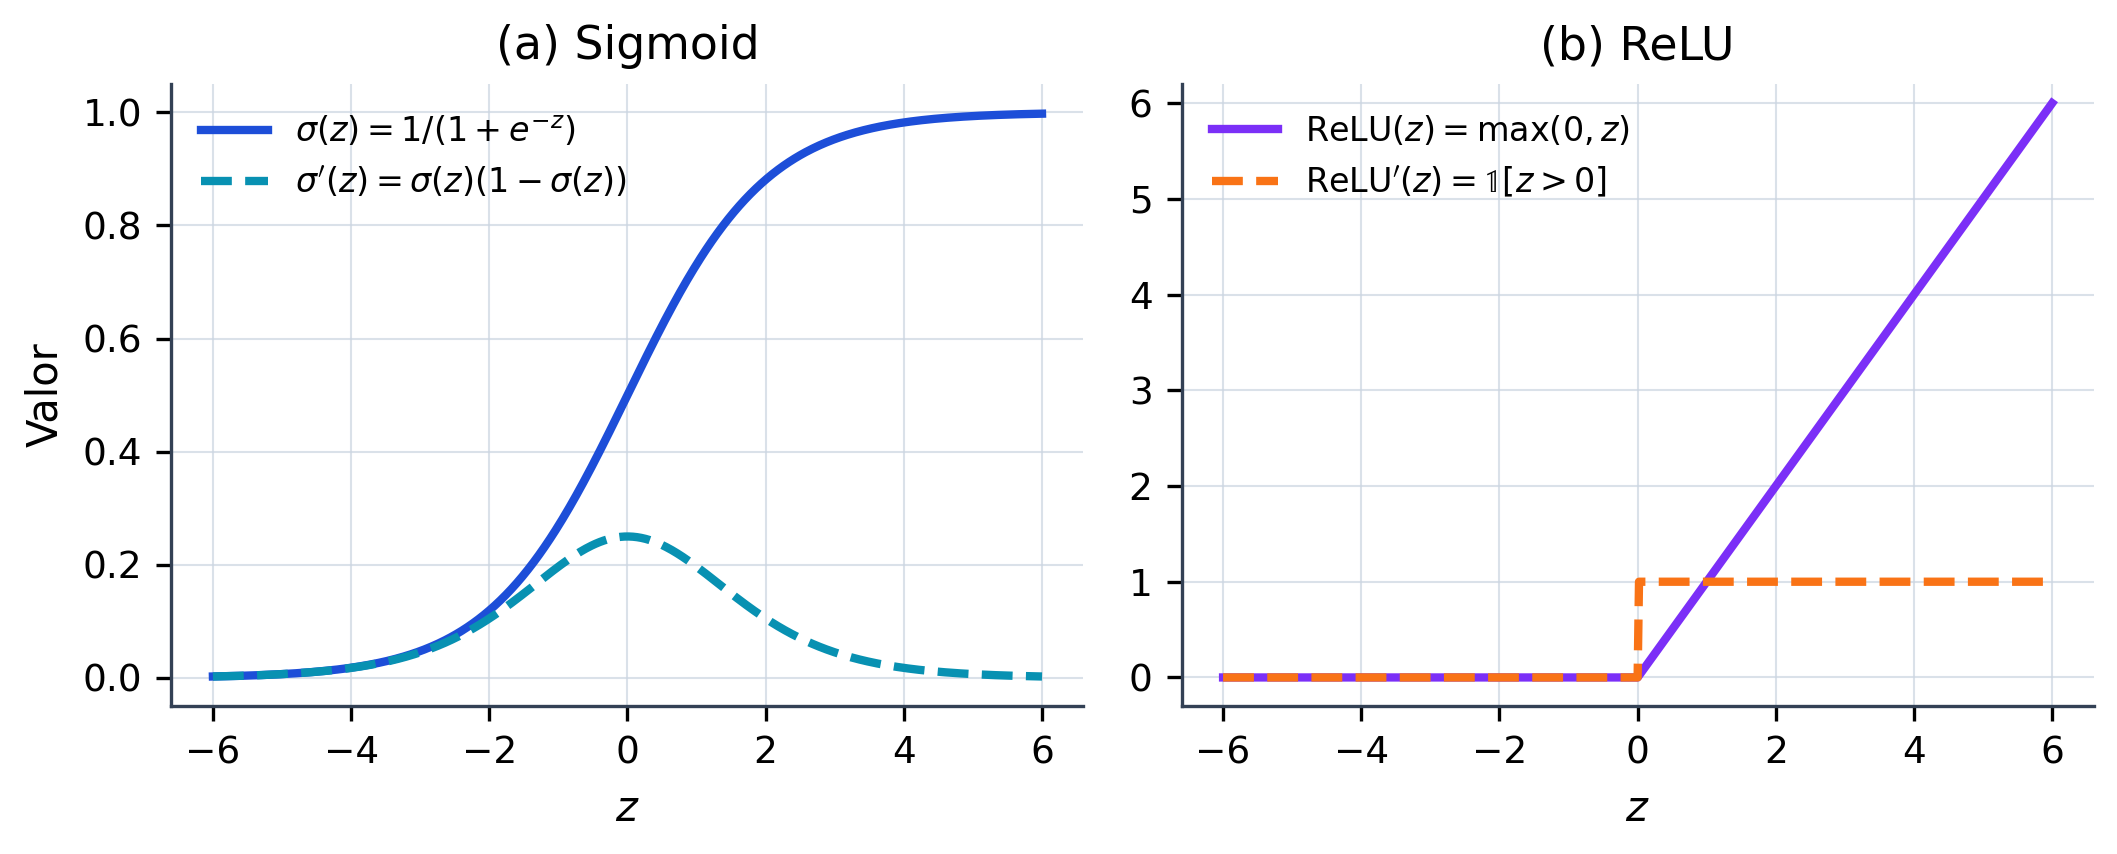
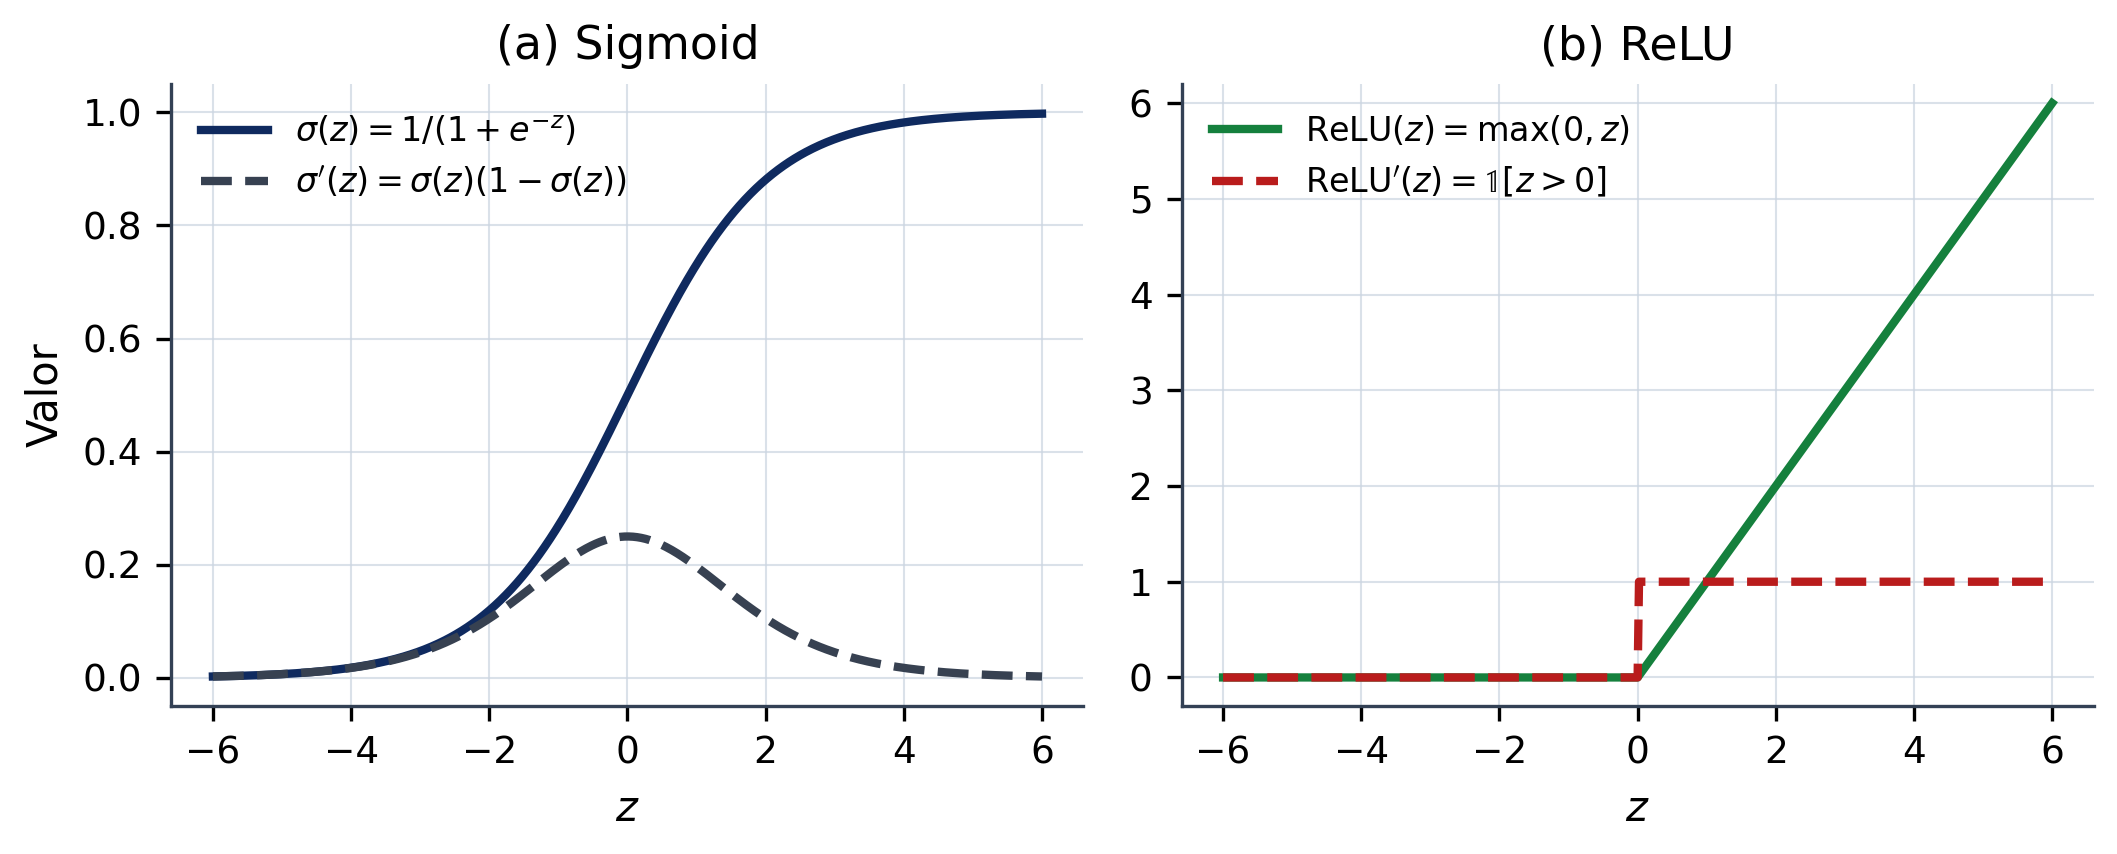
Paleta sobria científica en gráficas y diagramas (300 DPI) para el documento final

diff --git a/diagramas/generar_diagramas.py b/diagramas/generar_diagramas.py
@@ -17,13 +17,14 @@ DIR = RAIZ / "diagramas"
 FIG = RAIZ / "tesis" / "figuras"
 ESCALA = 300 / 96  # draw.io rasteriza a 96 px/pulgada
 
-MARINO = "#0F1736"
-AZUL = "#1D4ED8"
-CIAN = "#0891B2"
-PURPURA = "#7B2FF7"
-NARANJA = "#F97316"
+# Paleta sobria institucional: azul marino, gris pizarra, rojo técnico y verde bosque.
+MARINO = "#0F2A5F"
+AZUL = "#1E3A8A"
+CIAN = "#334155"
+PURPURA = "#0F2A5F"
+NARANJA = "#374151"
 ROJO = "#B91C1C"
-VERDE = "#047857"
+VERDE = "#15803D"
 GRIS = "#475569"
 FUENTE = "fontFamily=Helvetica;fontSize=13;fontColor=#0F172A;"
 
@@ -116,8 +117,8 @@ def d01_arbol():
                       X0, 300, W, 100, "fontSize=14;", borde=ROJO, relleno="#FEE2E2")
     for k, (e, c) in enumerate(zip(efectos, causas)):
         xc = cols[k] + cw / 2
-        ie = d.caja(e, cols[k], 130, cw, 110, borde=PURPURA, relleno="#F3E8FF")
-        ic = d.caja(c, cols[k], 460, cw, 130, borde=CIAN, relleno="#E0F2FE")
+        ie = d.caja(e, cols[k], 130, cw, 110, borde=PURPURA, relleno="#EEF2F7")
+        ic = d.caja(c, cols[k], 460, cw, 130, borde=CIAN, relleno="#F1F5F9")
         d.flecha(ic, problema, estilo=f"exitX=0.5;exitY=0;entryX={ent(X0, W, xc)};entryY=1;")
         d.flecha(problema, ie, estilo=f"exitX={ent(X0, W, xc)};exitY=0;entryX=0.5;entryY=1;")
         d.flecha(ie, final, estilo=f"exitX=0.5;exitY=0;entryX={ent(X0, W, xc)};entryY=1;")
@@ -130,9 +131,9 @@ def d02_arquitectura():
     paquete = "align=left;verticalAlign=top;spacingLeft=12;spacingTop=4;fontStyle=1;fontSize=14;dashed=0;"
     clase = "align=left;verticalAlign=top;spacingLeft=8;spacingTop=4;fontSize=11;arcSize=3;"
     W = 1420
-    pk_exp = d.caja("experiments  (src/experiments/)", 0, 170, W, 210, paquete, borde=NARANJA, relleno="#FFF7ED")
-    pk_nn = d.caja("nn  (src/nn/)", 0, 440, W, 350, paquete, borde=PURPURA, relleno="#FAF5FF")
-    pk_math = d.caja("math  (src/math/)", 0, 850, W, 250, paquete, borde=CIAN, relleno="#ECFEFF")
+    pk_exp = d.caja("experiments  (src/experiments/)", 0, 170, W, 210, paquete, borde=NARANJA, relleno="#F8FAFC")
+    pk_nn = d.caja("nn  (src/nn/)", 0, 440, W, 350, paquete, borde=PURPURA, relleno="#F8FAFC")
+    pk_math = d.caja("math  (src/math/)", 0, 850, W, 250, paquete, borde=CIAN, relleno="#F8FAFC")
     main = d.caja(uml("main.rs — CLI", ["flags: --all · --exp1 · --exp2 · --exp3 · --escritorio · --bench",
                                         "--export &lt;DIR&gt; · --seed &lt;N&gt; (por defecto 42)"],
                       ["+ parsear(args) → Opciones", "+ ejecutar(&amp;Opciones) → resultados/*.csv"]),
@@ -166,11 +167,11 @@ def d02_arquitectura():
     activation = d.caja(uml("Activation", ["Sigmoid · ReLU · Linear"], ["(Copy, sin asignación dinámica)"], "enum"),
                         730, 660, 220, 100, clase, borde=PURPURA)
     act_fn = d.caja(uml("ActivationFn", [], ["+ activate(z) → f(z)", "+ derivative(z) → f'(z)", "+ name()"], "trait"),
-                    1000, 480, 190, 120, clase, borde=PURPURA, relleno="#EDE9FE")
+                    1000, 480, 190, 120, clase, borde=PURPURA, relleno="#E8EDF5")
     structs = d.caja(uml("Sigmoid · ReLU · Linear", ["σ(z) · max(0, z) · z"], [], "struct"),
                      1000, 660, 190, 100, clase, borde=PURPURA)
     loss_fn = d.caja(uml("LossFn", [], ["+ loss(ŷ, y)", "+ derivative(ŷ, y)"], "trait"),
-                     1230, 480, 170, 120, clase, borde=PURPURA, relleno="#EDE9FE")
+                     1230, 480, 170, 120, clase, borde=PURPURA, relleno="#E8EDF5")
     mse = d.caja(uml("Mse", ["(1/n)·Σ(ŷᵢ − yᵢ)²", "∂/∂ŷ = (2/n)(ŷ − y)"], [], "struct"),
                  1230, 660, 170, 100, clase, borde=PURPURA)
     vector = d.caja(uml("Vector", ["- data: Vec&lt;f64&gt;"],
@@ -225,17 +226,17 @@ def d03_flujo():
     nodo("muestra", "<b>Para cada muestra</b> (x, y) del conjunto de entrenamiento", 44, relleno="#F1F5F9")
     y_grupo = y - 16
     nodo("fwd", "<b>1. forward</b>  (propagación hacia adelante)<br>a⁽⁰⁾ = x<br>"
-         "z⁽ˡ⁾ = W⁽ˡ⁾·a⁽ˡ⁻¹⁾ + b⁽ˡ⁾,   a⁽ˡ⁾ = f(z⁽ˡ⁾),   l = 1, …, L<br>ŷ = a⁽ᴸ⁾", 98, borde=AZUL, relleno="#DBEAFE")
-    nodo("loss", "<b>2. Pérdida</b><br>L = MSE(ŷ, y) = (1/n)·Σᵢ (ŷᵢ − yᵢ)²", 58, borde=NARANJA, relleno="#FFEDD5")
+         "z⁽ˡ⁾ = W⁽ˡ⁾·a⁽ˡ⁻¹⁾ + b⁽ˡ⁾,   a⁽ˡ⁾ = f(z⁽ˡ⁾),   l = 1, …, L<br>ŷ = a⁽ᴸ⁾", 98, borde=AZUL, relleno="#E8EDF5")
+    nodo("loss", "<b>2. Pérdida</b><br>L = MSE(ŷ, y) = (1/n)·Σᵢ (ŷᵢ − yᵢ)²", 58, borde=NARANJA, relleno="#F1F5F9")
     nodo("bwd", "<b>3. backward</b>  (retropropagación)<br>δ⁽ᴸ⁾ = (2/n)(ŷ − y) ⊙ f′(z⁽ᴸ⁾)<br>"
          "δ⁽ˡ⁾ = (W⁽ˡ⁺¹⁾)ᵀ·δ⁽ˡ⁺¹⁾ ⊙ f′(z⁽ˡ⁾)<br>∇W⁽ˡ⁾ = δ⁽ˡ⁾·(a⁽ˡ⁻¹⁾)ᵀ,   ∇b⁽ˡ⁾ = δ⁽ˡ⁾", 112,
-         borde=PURPURA, relleno="#EDE9FE")
+         borde=PURPURA, relleno="#E8EDF5")
     nodo("upd", "<b>4. update</b>  (descenso de gradiente)<br>W⁽ˡ⁾ ← W⁽ˡ⁾ − α·∇W⁽ˡ⁾,   b⁽ˡ⁾ ← b⁽ˡ⁾ − α·∇b⁽ˡ⁾",
-         64, borde=VERDE, relleno="#D1FAE5")
+         64, borde=VERDE, relleno="#ECF5EF")
     y_fin_grupo = y - 38 + 16
-    nodo("q1", "¿Quedan<br>muestras?", 92, "rhombus;fontStyle=1;", relleno="#FEF9C3", ancho=200)
+    nodo("q1", "¿Quedan<br>muestras?", 92, "rhombus;fontStyle=1;", relleno="#F1F5F9", ancho=200)
     nodo("log", "<b>Registrar la época</b>: MSE, exactitud, pesos → resultados/*.csv", 50, relleno="#F1F5F9")
-    nodo("q2", "¿e &lt; E?", 92, "rhombus;fontStyle=1;", relleno="#FEF9C3", ancho=200)
+    nodo("q2", "¿e &lt; E?", 92, "rhombus;fontStyle=1;", relleno="#F1F5F9", ancho=200)
     nodo("eval", "<b>Evaluación final</b> con predict(&amp;self, x): exactitud, matriz de confusión", 50)
     nodo("fin", "Fin", 46, inicio_fin, relleno="#E2E8F0", ancho=180)
     grupo = d.caja("", x - 30, y_grupo, w + 60, y_fin_grupo - y_grupo, "dashed=1;dashPattern=6 4;", borde=GRIS, relleno="none")
@@ -267,9 +268,9 @@ def d04_memoria():
     zona = "align=left;verticalAlign=top;spacingLeft=12;spacingTop=6;fontStyle=1;fontSize=14;"
     fila = "align=left;spacingLeft=8;fontSize=12;rounded=0;"
     d.caja("STACK  (marco de ejecutar(): tamaño fijo)", 0, 0, 430, 470, zona,
-           borde=AZUL, relleno="#EFF6FF")
+           borde=AZUL, relleno="#F8FAFC")
     d.caja("HEAP  (buffers de Vec&lt;T&gt;: tamaño dinámico, liberados por Drop)", 500, 0, 820, 470, zona,
-           borde=PURPURA, relleno="#FAF5FF")
+           borde=PURPURA, relleno="#F8FAFC")
     d.texto("<b>red: Network</b>  (XOR 2-4-1, propietaria de sus capas)", 20, 50, 390, 26, "align=left;")
     red_layers = d.caja("layers: Vec&lt;Layer&gt;  { ptr ●, len = 2, cap = 2 }", 20, 78, 390, 34, fila, borde=AZUL)
     d.caja("loss: Mse  (struct de tamaño 0)", 20, 112, 390, 34, fila, borde=AZUL)
@@ -279,22 +280,22 @@ def d04_memoria():
     d.caja("Un Vec&lt;T&gt; ocupa 24 B en el stack (puntero, longitud y capacidad); "
            "sus elementos viven contiguos en el heap.", 20, 320, 390, 70, "fontSize=12;align=left;", borde=GRIS, relleno="#FFFFFF")
     d.texto("<b>Buffer de Vec&lt;Layer&gt;</b>  (2 capas contiguas)", 520, 40, 500, 26, "align=left;")
-    l0 = d.caja("<b>Layer 0</b>  (2 → 4, Sigmoid)", 520, 68, 380, 30, fila + "fillColor=#EDE9FE;", borde=PURPURA)
+    l0 = d.caja("<b>Layer 0</b>  (2 → 4, Sigmoid)", 520, 68, 380, 30, fila + "fillColor=#E8EDF5;", borde=PURPURA)
     l0w = d.caja("weights: Matrix { rows = 4, cols = 2, data: ptr ● }", 520, 98, 380, 30, fila, borde=PURPURA)
     d.caja("biases, input, z, output, delta: Vector · grad_weights: Matrix", 520, 128, 380, 30, fila + "fontSize=11;", borde=PURPURA)
-    d.caja("<b>Layer 1</b>  (4 → 1, Sigmoid)", 520, 158, 380, 30, fila + "fillColor=#EDE9FE;", borde=PURPURA)
+    d.caja("<b>Layer 1</b>  (4 → 1, Sigmoid)", 520, 158, 380, 30, fila + "fillColor=#E8EDF5;", borde=PURPURA)
     d.caja("weights: Matrix { rows = 1, cols = 4, data: ptr ● } · …", 520, 188, 380, 30, fila + "fontSize=11;", borde=PURPURA)
     d.texto("<b>Datos de weights de Layer 0</b> (W⁽¹⁾): 4 × 2 = 8 valores f64 en orden por filas (64 B contiguos)", 520, 255, 780, 26, "align=left;")
     celdas = []
     for k in range(8):
         i, j = divmod(k, 2)
-        relleno = "#E0F2FE" if i % 2 == 0 else "#CFFAFE"
+        relleno = "#F1F5F9" if i % 2 == 0 else "#E2E8F0"
         celdas.append(d.caja(f"w<sub>{i}{j}</sub><br><font style=\"font-size:10px\">[{k}]</font>", 520 + k * 72, 285, 72, 54,
                              "rounded=0;", borde=CIAN, relleno=relleno))
     d.texto("idx(i, j) = i·cols + j   →   W[i][j] = data[i·2 + j]   ·   recorrido secuencial amigable con la caché",
             520, 345, 780, 26, "align=left;fontSize=12;fontColor=#475569;")
     d.texto("<b>Datos de x</b>", 1120, 40, 180, 26, "align=left;")
-    xb = [d.caja(f"x<sub>{k + 1}</sub>", 1120 + k * 80, 68, 80, 44, "rounded=0;", borde=CIAN, relleno="#E0F2FE") for k in range(2)]
+    xb = [d.caja(f"x<sub>{k + 1}</sub>", 1120 + k * 80, 68, 80, 44, "rounded=0;", borde=CIAN, relleno="#F1F5F9") for k in range(2)]
     puntero = "strokeColor=#B91C1C;endArrow=classic;endFill=1;strokeWidth=1.6;"
     d.flecha(red_layers, l0, "", puntero + "exitX=1;exitY=0.5;entryX=0;entryY=0.5;")
     d.flecha(x_data, xb[0], "", puntero + "exitX=1;exitY=0.5;entryX=0.5;entryY=1;",
@@ -302,13 +303,13 @@ def d04_memoria():
     d.flecha(l0w, celdas[0], "", puntero + "exitX=1;exitY=0.5;entryX=0.5;entryY=0;", puntos=[(940, 113), (940, 240), (556, 240)])
     reglas = [
         ("Ownership", "Network posee su Vec&lt;Layer&gt;; cada Layer posee sus Matrix y Vector. "
-         "Cuando red sale de ámbito, Drop libera todo el heap en cascada: sin recolector de basura y sin fugas.", AZUL, "#DBEAFE"),
+         "Cuando red sale de ámbito, Drop libera todo el heap en cascada: sin recolector de basura y sin fugas.", AZUL, "#E8EDF5"),
         ("Préstamo inmutable  &amp;T", "predict(&amp;self, x: &amp;Vector) y evaluate_mse(&amp;self, …) solo leen: "
-         "admiten varios lectores a la vez y no copian los datos.", VERDE, "#D1FAE5"),
+         "admiten varios lectores a la vez y no copian los datos.", VERDE, "#ECF5EF"),
         ("Préstamo mutable  &amp;mut T", "forward, backward, update y train_step(&amp;mut self, …) modifican pesos y cachés: "
-         "un único escritor; el compilador impide alias con mutación.", PURPURA, "#EDE9FE"),
+         "un único escritor; el compilador impide alias con mutación.", PURPURA, "#E8EDF5"),
         ("Result&lt;T, MathError&gt;", "get(i, j), matmul o add validan índices y dimensiones y devuelven Err "
-         "en lugar de acceder fuera de rango o entrar en pánico.", NARANJA, "#FFEDD5"),
+         "en lugar de acceder fuera de rango o entrar en pánico.", NARANJA, "#F1F5F9"),
     ]
     for k, (t, cuerpo, b, r) in enumerate(reglas):
         d.caja(f"<b>{t}</b><br>{cuerpo}", k * 335, 500, 315, 120, "align=left;verticalAlign=top;fontSize=12;", borde=b, relleno=r)
@@ -332,8 +333,8 @@ def d05_fases():
         ("Documentación", "Documentación ///, prueba de escritorio, benchmarks, tesis APA 7 y kit de feria",
          "Proyecto educativo abierto", NARANJA),
     ]
-    bloques = [("Fundamentos matemáticos", 0, 4, CIAN, "#ECFEFF"), ("Aprendizaje", 4, 6, AZUL, "#EFF6FF"),
-               ("Experimentación", 6, 8, PURPURA, "#FAF5FF"), ("Difusión", 8, 9, NARANJA, "#FFF7ED")]
+    bloques = [("Fundamentos matemáticos", 0, 4, CIAN, "#F8FAFC"), ("Aprendizaje", 4, 6, AZUL, "#F8FAFC"),
+               ("Experimentación", 6, 8, PURPURA, "#F8FAFC"), ("Difusión", 8, 9, NARANJA, "#F8FAFC")]
     W, H, G = 230, 190, 56
     pos = [(k * (W + G), 40) for k in range(4)] + [(k * (W + G), 330) for k in range(5)]
     for nombre, a, b, borde, relleno in bloques:

diff --git a/scripts/generar_graficas.py b/scripts/generar_graficas.py
@@ -22,14 +22,17 @@ RES = RAIZ / "resultados"
 FIG = RAIZ / "tesis" / "figuras"
 DPI = 300
 
-MARINO = "#0F1736"
-AZUL = "#1D4ED8"
-CIAN = "#0891B2"
-PURPURA = "#7B2FF7"
-NARANJA = "#F97316"
-GRIS = "#64748B"
-ROJO = "#DC2626"
-VERDE = "#059669"
+# Paleta sobria científica (documento académico): azul marino, rojo técnico, verde bosque y grises.
+MARINO = "#0F2A5F"
+AZUL = MARINO
+ROJO = "#B91C1C"
+VERDE = "#15803D"
+GRIS_OSCURO = "#374151"
+GRIS = "#6B7280"
+CELESTE_GRIS = "#C7D2E0"
+CIAN = GRIS_OSCURO
+PURPURA = VERDE
+NARANJA = ROJO
 
 plt.rcParams.update({
     "font.family": "DejaVu Sans",
@@ -167,7 +170,7 @@ def fig06_xor_frontera():
     x1, x2 = col(d, "x1"), col(d, "x2")
     n = int(round(np.sqrt(len(d))))
     X1, X2 = x1.reshape(n, n), x2.reshape(n, n)
-    cmap = LinearSegmentedColormap.from_list("rn", ["#FFFFFF", "#BAE6FD", CIAN, PURPURA])
+    cmap = LinearSegmentedColormap.from_list("rn", ["#FFFFFF", CELESTE_GRIS, "#5B7299", MARINO])
     fig, axs = plt.subplots(1, 2, figsize=(7.2, 3.3), sharey=True)
     puntos = [((0, 0), 0), ((0, 1), 1), ((1, 0), 1), ((1, 1), 0)]
     for ax, clave, titulo in [(axs[0], "salida_perceptron", "(a) Perceptrón 2-1"),
@@ -241,7 +244,7 @@ def fig09_confusion():
     d = leer("exp3_confusion.csv")
     clases = [k for k in d[0].keys() if k != "real"]
     m = np.array([[int(f[c]) for c in clases] for f in d])
-    cmap = LinearSegmentedColormap.from_list("cf", ["#FFFFFF", "#BAE6FD", AZUL, MARINO])
+    cmap = LinearSegmentedColormap.from_list("cf", ["#FFFFFF", CELESTE_GRIS, "#5B7299", MARINO])
     fig, ax = plt.subplots(figsize=(4.4, 3.8))
     im = ax.imshow(m, cmap=cmap)
     for i in range(len(clases)):
@@ -267,7 +270,7 @@ def fig10_bench():
     for f in d:
         if f["experimento"] not in exps:
             exps.append(f["experimento"])
-    colores = [NARANJA, AZUL, PURPURA]
+    colores = [ROJO, MARINO, VERDE]
     fig, (a1, a2) = plt.subplots(1, 2, figsize=(7.2, 3.2), gridspec_kw={"width_ratios": [1.5, 1]})
     inf = []
     for e, c in zip(exps, colores):
